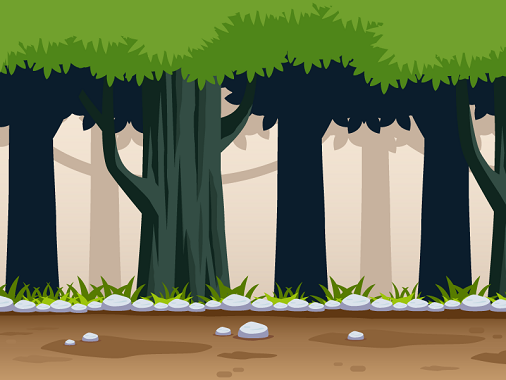
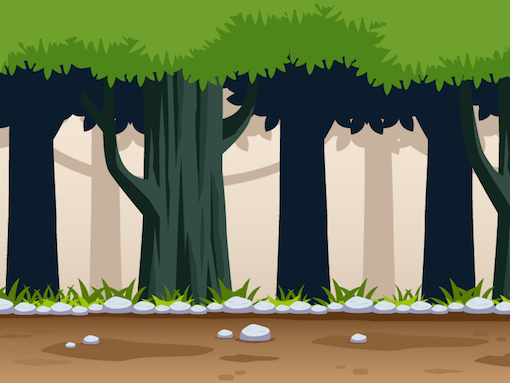
Updated the cat jump and obstacles

diff --git a/src/js/test_cat_obj.js b/src/js/test_cat_obj.js
@@ -8,6 +8,7 @@ var
     frames = 0,
     cat,
     obstacle,
+	gaming,
     obstacles = [],
     pillars,
     currentState,
@@ -16,7 +17,8 @@ var
     states = {
         Splash: 0,
         Game: 1,
-        Score: 2
+        Score: 2,
+		Crash: 3,
     };
 
 
@@ -26,8 +28,7 @@ $(document).ready(function(){
 	canvasSetup();
 	currentState = states.Game;
 	cat = new Cat();
-	bckgr = new Background();
-	obstacle = new Obstacle(50,50);
+	//obstacle = new Obstacle(50,50);
 	loadGraphics();
 });
 
@@ -35,7 +36,7 @@ function windowSetup(){
     width = window.innerWidth;
     height = window.innerHeight;
     if (width >= 500){
-        width = 780;
+        width = 705;
         height = 380;
     }
 
@@ -49,7 +50,7 @@ function canvasSetup(){
 	$("body").append(canvas); 
 	$("#canvasEl").css({"border": "10px solid black"});
 	ctx = $("#canvasEl")[0].getContext('2d');
-	$("#canvasEl").on("click",function(){
+	$(document).on("click",function(){
 		onpress();
 	});
 	canvasWidth = $("#canvasEl").prop("width");
@@ -57,38 +58,48 @@ function canvasSetup(){
 }
 
 function Obstacle(width,height){
-	
-	this.height = height;
-	this.width = width; 
+	this.height = 80;
+	this.width = 180;
 	this.start = canvasWidth;
 	this.top = canvasHeight - this.height;
 	this.bottom = canvasHeight;
-	//this.x = x;
-	//this.y = y;
+	this.x = 50;
+	this.y = 100;
 	this.color = "blue"; 
     this.update = function() {
-    	var rightSide = canvasWidth + this.width,
-    		speed = 8;
-    	this.start -= speed; 
+
+    	this.start -= 8;
     	this.x = this.start;
     	this.left = this.x;
     	this.right = this.x + this.width;
-        ctx.fillStyle = "blue";
-        ctx.fillRect(this.x, canvasHeight - this.height - 14, this.width,this.height );
-        if(this.x < -this.width){
-        	this.start = rightSide; 
-        }
         if (obstacles.length >= 2){
 			obstacles.pop();
 		}
+		this.draw();
 		this.collide();
 		//console.log(this.height);
 
     };
+	this.draw = function () {
+		var rightSide = canvasWidth + this.width;
+		var img=document.createElement('img');
+		img.src='images/tree.png';
+		ctx.drawImage(img,0,0,180,80,this.x,canvasHeight - this.height - 14,180,80);
+		ctx.drawImage(img,0,0,180,80,this.x + this.width,canvasHeight - this.height - 14,180,80);
+		//ctx.fillStyle = "blue";
+		//ctx.fillRect(this.x, canvasHeight - this.height - 14, this.width,this.height );
+		if(this.x < -this.width){
+			this.start = rightSide;
+		}
+	};
+
     this.collide = function(){
-    	console.log(rockbottom);
-    	if (cat.x + catSprite[1].width >= this.left){
-    		rockbottom = this.top - catSprite[1].height - 40;
+    	//console.log(rockbottom);
+		if (cat.y + catSprite[1].height  > this.top && cat.x + catSprite[1].width >= this.left + 20){
+			currentState = states.Crash;
+		}
+    	if (cat.x + catSprite[1].width >= this.left + 20){
+    		rockbottom = this.top - catSprite[1].height - 20;
     		
     	} else {
     		rockbottom = 260;
@@ -134,21 +145,12 @@ function Cat() {
 		}
 	};
 	this.update = function() {
-
-		if (this.y >= rockbottom - 10){
-			cat.animation = [0,1,2,3,4,5,6,7];
-			jumping = false
-		}
-		
-		var n = currentState === states.Splash ? 10 : 5;
-		//console.log(cat.y);
-		this.frame += frames % n === 0 ? 1 : 0;
-		this.frame %= this.animation.length; 
-
 		if (currentState === states.Splash) {
 			this.updateIdleCat();
-		} else {
+		} else if (currentState == states.Game){
 			this.updatePlayingCat();
+		} else if (currentState === states.Crash){
+			this.UpdateCrashingCat();
 		}
 	};
 
@@ -161,93 +163,114 @@ function Cat() {
 	};
 
 	this.updateIdleCat = function (){
+		jumping = false;
 		this.y = height - 280 + 5 * Math.cos(frames / 10);
 		this.rotation = 100;
 	};
 	this.updatePlayingCat = function(){
+		if (this.y >= rockbottom - 10){
+			cat.animation = [0,1,2,3,4,5,6,7];
+			jumping = false;
+		}
+		var n = 5;
+		this.frame += frames % n === 0 ? 1 : 0;
+		this.frame %= this.animation.length;
+	};
+
+	this.UpdateCrashingCat = function(){
+		jumping = false;
+		cat.animation = 0;
+		$("body").append("<button>This</button>");
+		gaming = cancelAnimationFrame(gameLoop);
 	};
 
 
 	this.draw = function (ctx){
 		var n = this.animation[this.frame];
 		catSprite[n].draw(ctx,this.x,this.y);
+		/*
 		ctx.fillRect(this.x,this.y,1,10);
 		ctx.fillRect(this.x + catSprite[1].width,this.y,1,10);
-		ctx.fillRect(this.x,this.y + catSprite[1].height,1,10)
+		ctx.fillRect(this.x,this.y + catSprite[1].height,1,10);
 		ctx.fillRect(this.x + catSprite[1].width,this.y + catSprite[1].height,1,10);
+		*/
 		ctx.restore();
 	};
 }
 
-function Background (){
+function Background (img){
 	var x = 0;
 	var y = 0;
+	this.speedX = 5;
+	this.width = 505;
+	ctx.fillStyle = "green";
+
+	this.img = img;
+	console.log(img);
 	this.scroll = function(){
-	    var pattern = ctx.createPattern(backimg, 'repeat');
-	        ctx.rect(x, 0, width, height);
-	        ctx.fillStyle = pattern;
-	        ctx.fill();
-	        ctx.drawImage(backimg,x,0);
-	        console.log("background")
+		if (x <= -canvasWidth + 200){
+			x = 0;
+		}
+		x -= this.speedX;
+		ctx.drawImage(this.img, x, y);
+		ctx.drawImage(this.img, x + this.width ,0);
+		ctx.drawImage(this.img, x + this.width + this.width,0);
 	  };
 }
 
 
 function loadGraphics() {
-    // Initiate graphics and ok button
     backimg = new Image();
     backimg.src = 'images/jungle.png';
+	bckgr = new Background(backimg);
     var img = new Image();
     img.src = "images/runningcat (1).png";
     img.onload = function() {
         initSprites(this);
-        gameLoop();
-    };
 
+    };
+	tree = new Image();
+	tree.src = backimg.src;
+	tree.onload = function(){
+		initTreeSprite(this);
+		gameLoop();
+	}
 }
 
 function gameLoop(){
+
 	update();
-	render();
-	window.requestAnimationFrame(gameLoop);
+	if (currentState === states.Game){
+		render();
+	}
+	 gaming = requestAnimationFrame(gameLoop);
 }
 
 function update(){
 	frames++;
-	
-	if(frames === 1 || everyinterval(Math.floor((Math.random() * 1550) + 150))){
-		obstacle = new Obstacle(500,50);
+
+	if(frames === 1 || everyinterval( 150 )){  // Math.floor((Math.random() * 550) + 150))){
+		obstacle = new Obstacle(500,Math.ceil(Math.random() * 100) + 50);
 		obstacles.push(obstacle);
-		//console.log(obstacle);
-		//obstacle.update();
 	}
-
-	ctx.clearRect(0, 0, canvasWidth, canvasHeight);
-	//ctx.drawImage("<div></div>",10,100);
-
-	for (var i = 0; i < obstacles.length; i++){
-		obstacles[i].update()
-	}
-
 	cat.fall();
 	cat.update();
-	
 }
 
 function render(){
-	//bckgr.scroll();
-	
+	ctx.clearRect(0, 0, canvasWidth, canvasHeight);
+	bckgr.scroll();
 	cat.draw(ctx);
+	for (var i = 0; i < obstacles.length; i++){
+		obstacles[i].update();
+	}
 }
 
 function onpress(){
 	cat.jump();
-	//cat.gravity = n;
-	//cat.jump();
 }
 
 function everyinterval(n) {
-	//console.log("everyInterval: " + frames);
     if ((frames / n) % 1 == 0) {return true;}
     return false;
 }

diff --git a/src/css/gameStyle.css b/src/css/gameStyle.css
@@ -1,8 +1,7 @@
-#gameContainer {
-    height: 420px;
-    width: 480px;
-    border: 2px solid gray;
+#canvasEl {
     box-shadow: 5px 10px 30px black;
+    margin-left: 550px;
+    margin-top: 15%;
 }
 
 #mainContainer {
@@ -12,10 +11,17 @@
 }
 
 #background {
-    position:
-    height: 100%;
-    width: 100%;
-    background-size: contain;
-    background: transparent url('../images/Green-Background.jpg') no-repeat;
+    position: absolute;
+    top: 100px;
+    bottom: 0;
+    right: 0;
+    left: 130px;
+    background-size: cover;
+    background: transparent url('../images/bigback.jpg') no-repeat;
     z-index: -1;
+}
+
+button {
+    height: 100px;
+    width: 100px;
 }

diff --git a/src/js/sprites.js b/src/js/sprites.js
@@ -1,4 +1,5 @@
 var catSprite,
+    tree,
     birdSprite;
 
 Sprite.prototype.draw = function (renderingContext, x, y){
@@ -35,7 +36,7 @@ function initSprites(img){
     ];
 }
 
-function initSprites2(img){
+function initBirdSprite(img){
     birdSprite = [
         new Sprite(img,7,5,40,35),
         new Sprite(img,45,9,35,30),
@@ -49,4 +50,11 @@ function initSprites2(img){
         new Sprite(img,0,0,0,0),
         new Sprite(img,0,0,0,0)
     ];
+}
+
+
+function initTreeSprite(img){
+    tree = [
+        new Sprite(img,100,100,150,100)
+    ]
 }

diff --git a/src/gamePage.html b/src/gamePage.html
@@ -5,11 +5,12 @@
     <title>My Game</title>
     <link rel="stylesheet" href="css/gameStyle.css">
 </head>
-<body>
+<body style="background-color: rgba(0,0,0,0.60)">
     <div id="background"></div>
 
 <script src="https://code.jquery.com/jquery-3.0.0.min.js" integrity="sha256-JmvOoLtYsmqlsWxa7mDSLMwa6dZ9rrIdtrrVYRnDRH0=" crossorigin="anonymous"></script>
 <script src="js/test_cat_obj.js" type="text/javascript"></script>
     <script src="js/sprites.js" type="text/javascript"></script>
+<div id="test"></div>
 </body>
 </html>
